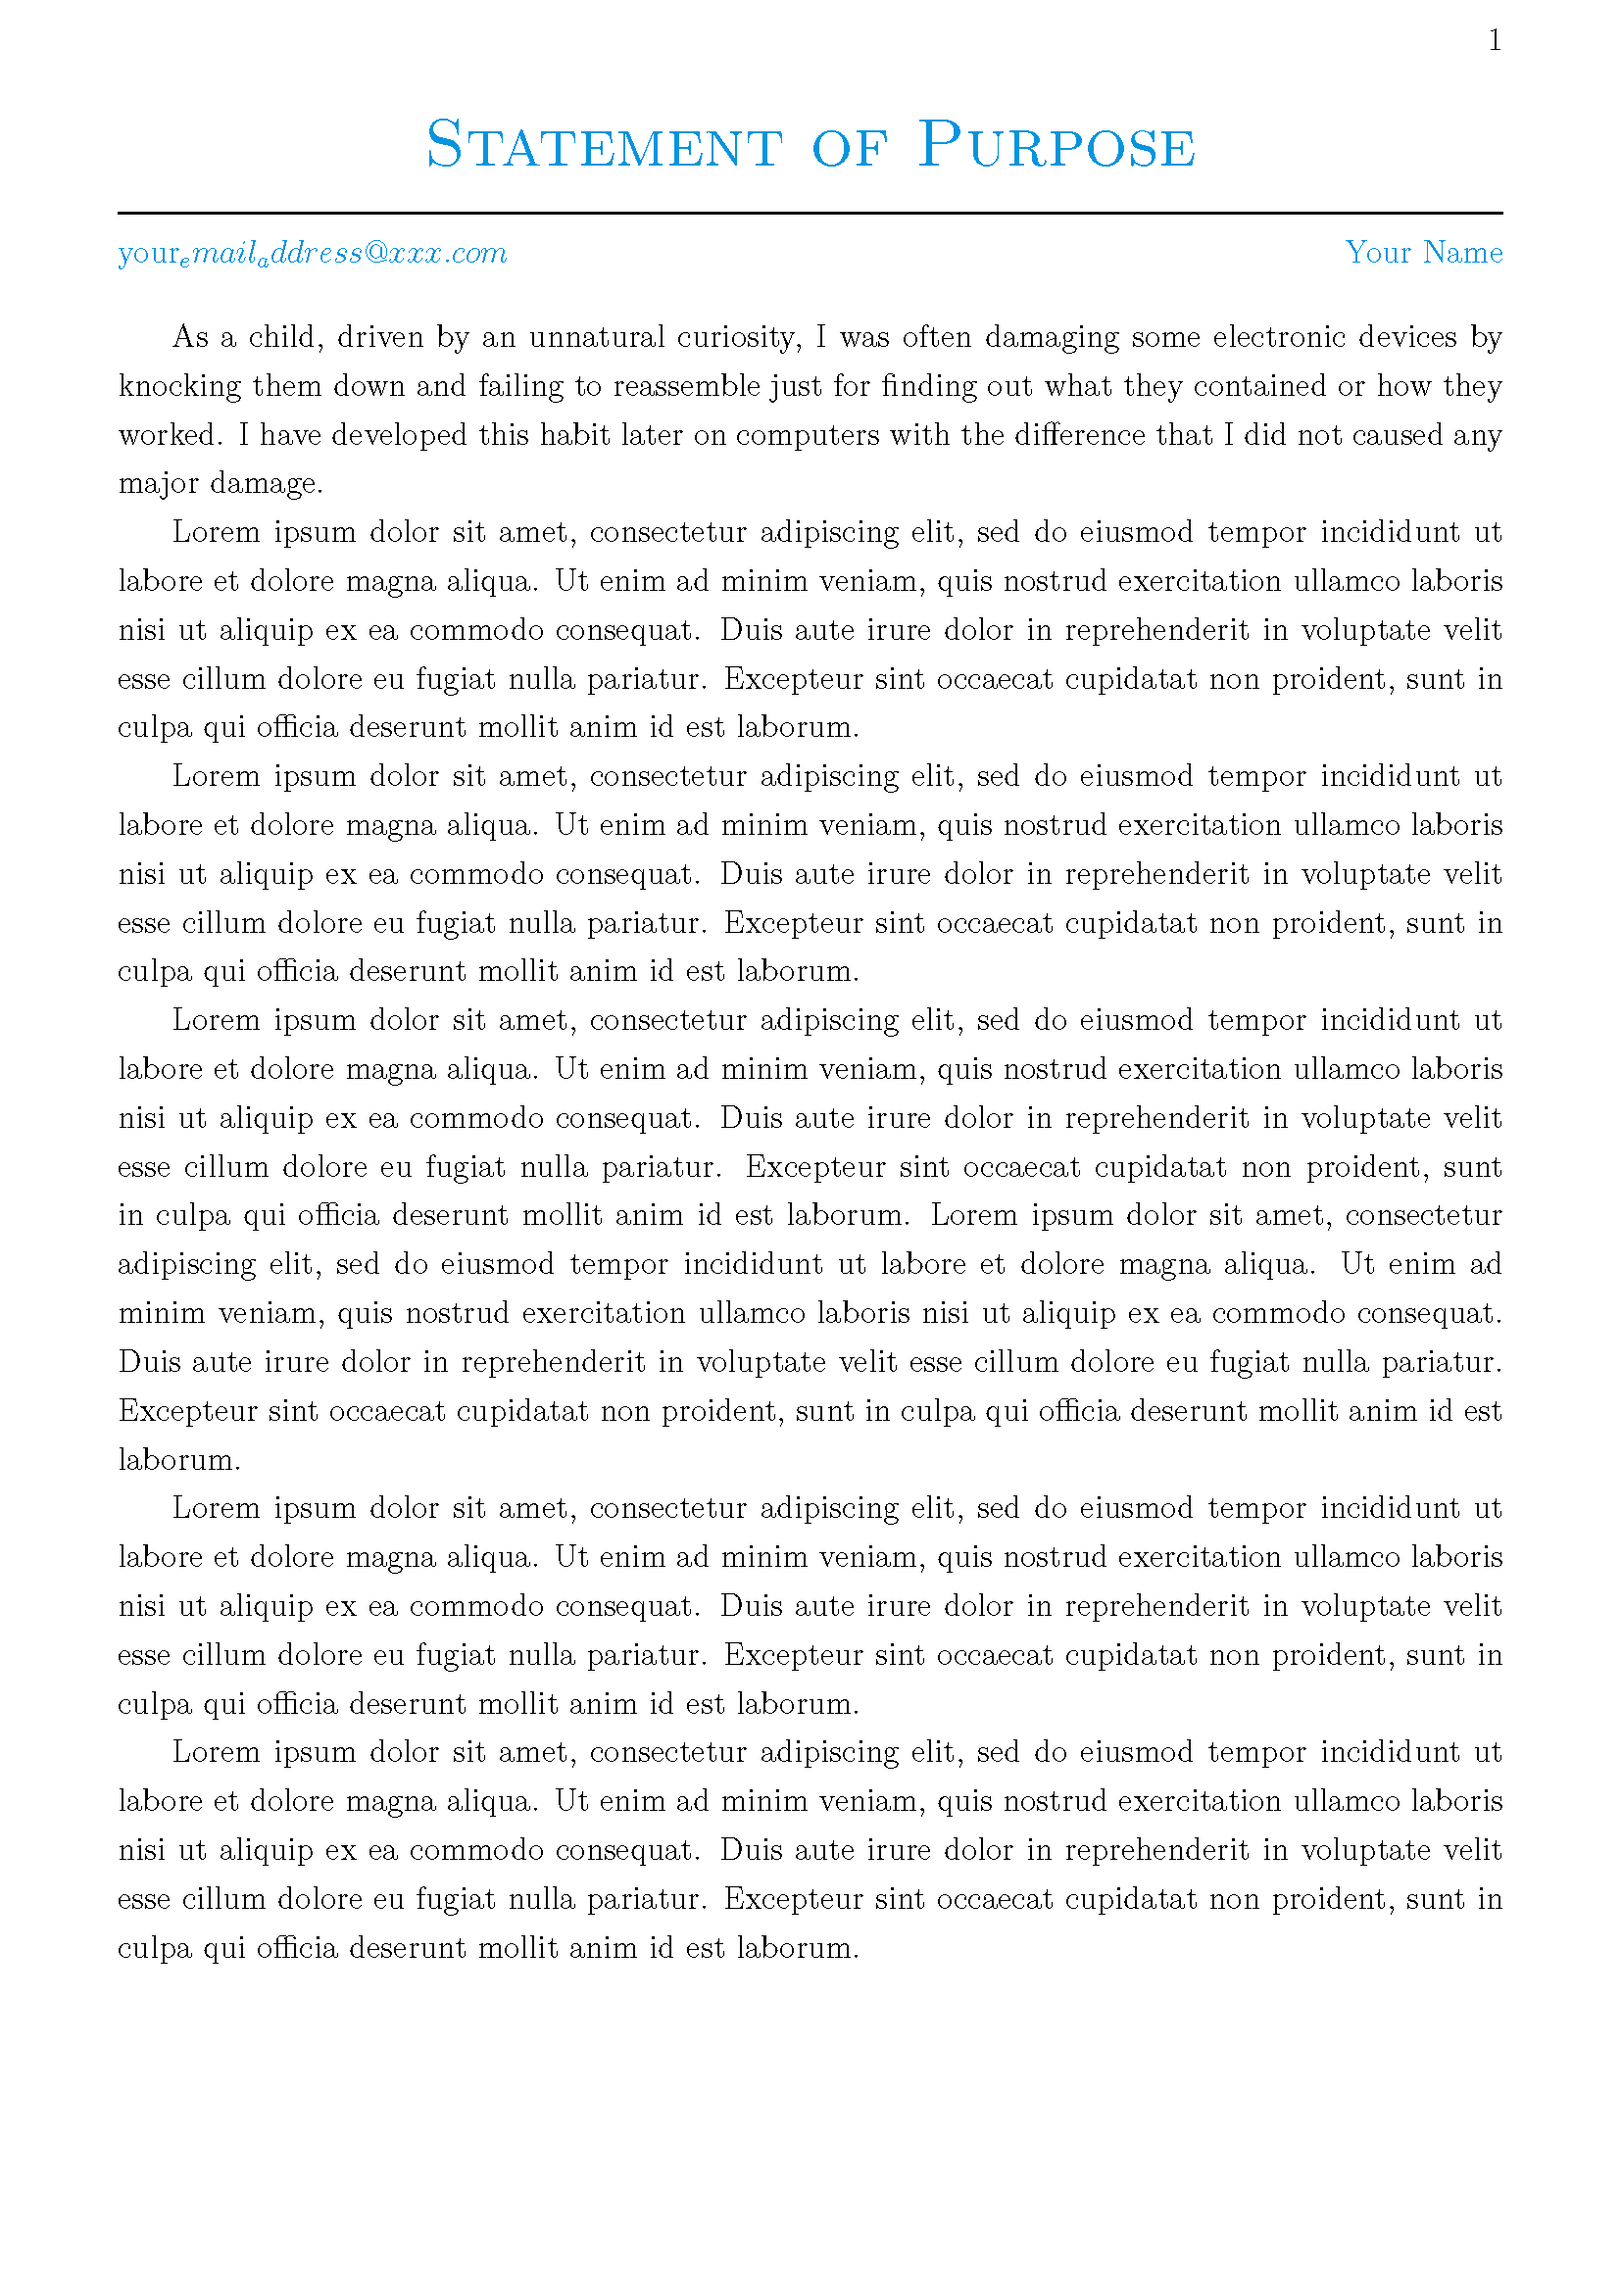
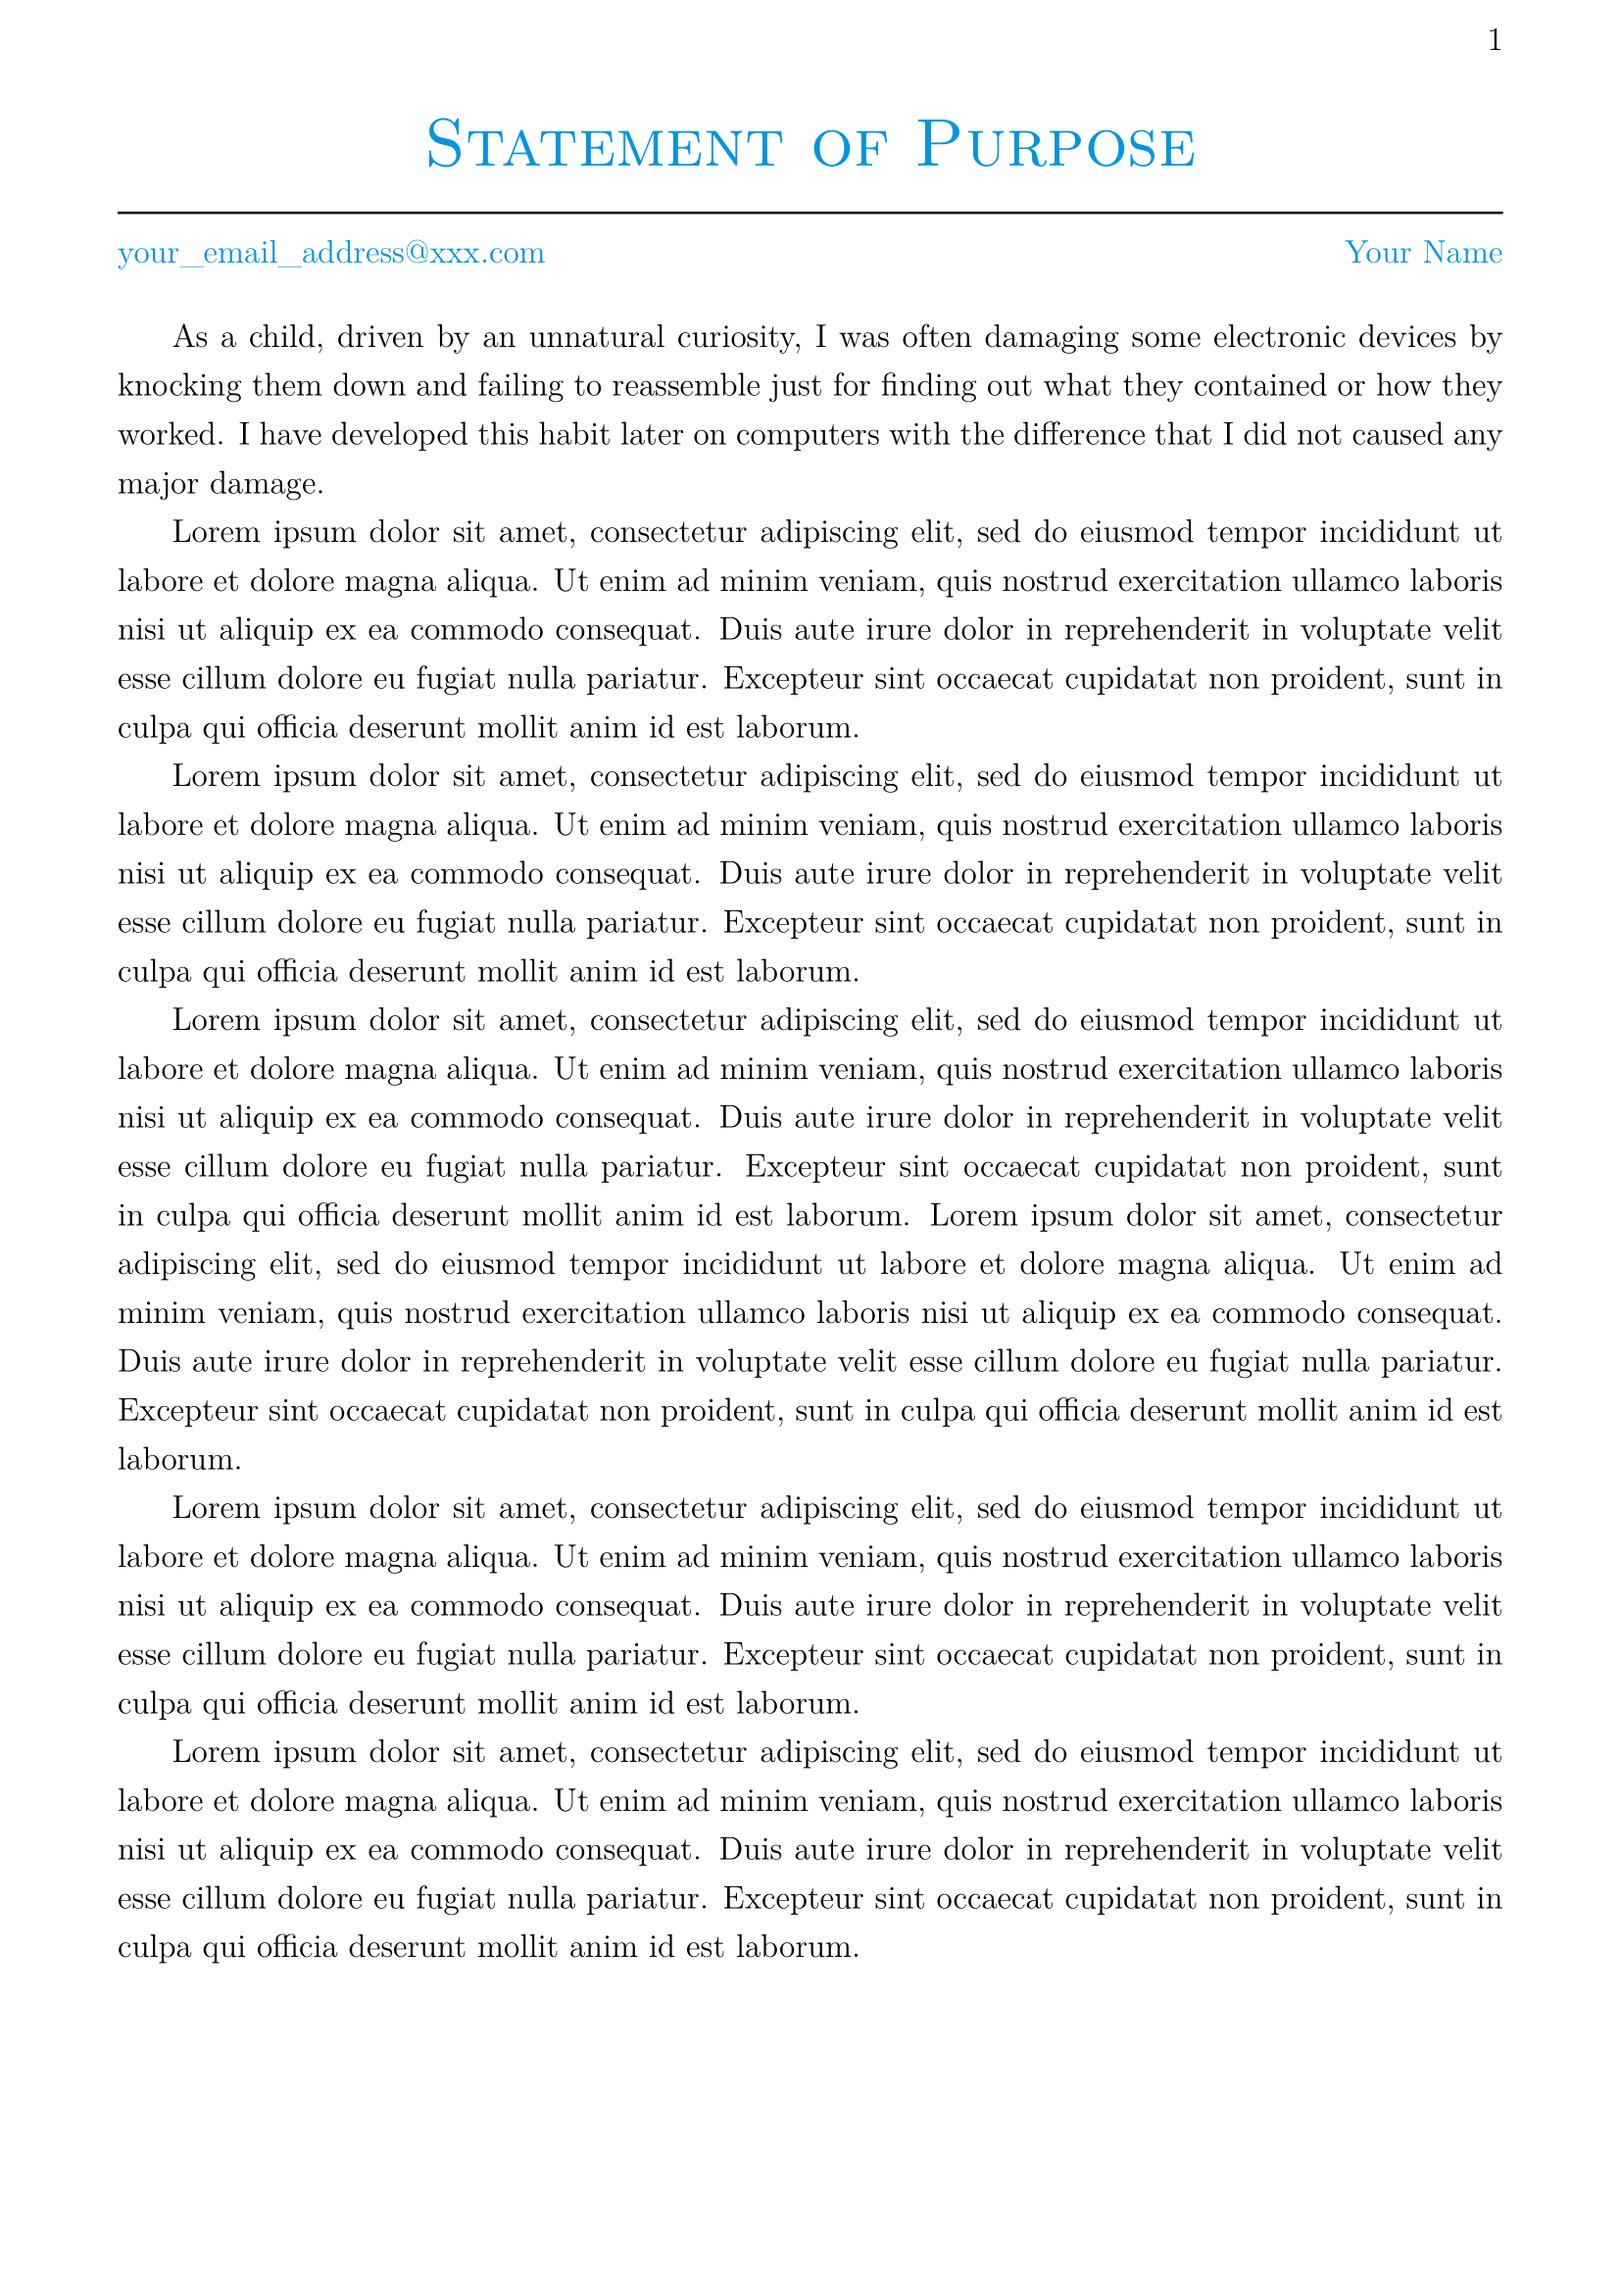
update sop

diff --git a/Doc-Templates/CV/cv.tex b/Doc-Templates/CV/cv.tex
@@ -48,7 +48,7 @@
 % \photo{./examples/profile.png}
 \name{Your}{Name}
 \position{Data Scientist{\enskip$\vert$\enskip}Math Enthusiast}
-% \address{15055 S Cabernet Ln, Mulino, Oregon, USA}
+% \address{Your Adress}
 \mobile{(+1) 123-456-7890}
 \email{hello@singsongaftermath.com}
 %\dateofbirth{January 1st, 1970}

diff --git a/Doc-Templates/SoP/sop.tex b/Doc-Templates/SoP/sop.tex
@@ -8,7 +8,7 @@
 
 \title{Statement of Purpose}
 \author{https://www.your_website.com/}{Your Name}
-\email{your_email_address@xxx.com}
+\email{your\_email\_address@xxx.com}
 
 \usepackage{fancyhdr}
 
